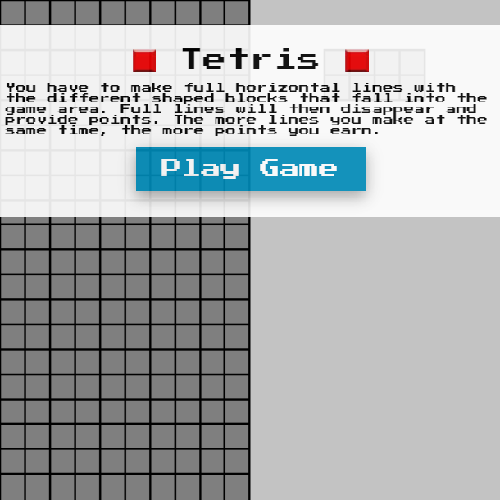
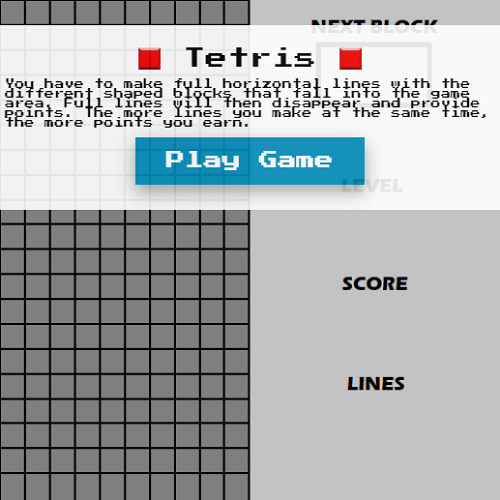
Added counters

diff --git a/src/classes/game.ts b/src/classes/game.ts
@@ -5,9 +5,11 @@ import Player from './player';
 import IPlayer from './interfaces/player';
 import Sprite from './sprite';
 import Block from './block';
+import Counter from './counter';
 import ISprite from './interfaces/sprite';
 import IBlock from './interfaces/block';
 import INextBlock from './interfaces/next-block';
+import ICounter from './interfaces/counter';
 import PlayerResultEnum from './enums/player-result-enum';
 import DirectionEnum from './enums/direction-enum';
 import SpriteTypeEnum from './enums/sprite-type-enum';
@@ -22,12 +24,15 @@ export default class Game implements IGame {
 	public board: ISprite[];
 	public block: IBlock;
 	public next: IBlock;
-	public level: number;
+	public level: ICounter;
+	public score: ICounter;
+	public lines: ICounter;
 	public direction: DirectionEnum;
 	public timer: any;
 	public timerInterval: number;
 	public isGameInPlay: boolean;
 
+	readonly DEFAULT_LINE_SCORE: number = 100;
 	readonly defaultTimerInterval: number = 1000;
 	readonly intervalDecrease: number = 10;
 	readonly intervalMinimum: number = 100;
@@ -48,9 +53,11 @@ export default class Game implements IGame {
 		this.player = new Player(config);
 		this.sprites = [];
 		this.board = [];
+		this.level = new Counter({ x: 14, y: 9, value: 1, digits: 4 });
+		this.score = new Counter({ x: 12, y: 13, value: 0, digits: 8 });
+		this.lines = new Counter({ x: 12, y: 17, value: 0, digits: 8 });
 		this.block = this.newBlock(5, 0, DirectionEnum.DOWN, this.randomSprite());
 		this.next = this.nextBlock();
-		this.level = 1;
 		this.direction = DirectionEnum.RIGHT
 		this.isGameInPlay = false;
 		this.timerInterval = this.defaultTimerInterval;
@@ -59,6 +66,7 @@ export default class Game implements IGame {
 		this.hideOrShowBlock(true, this.block, this.sprites);
 		this.createBoard();
 		this.hideOrShowBlock(true, this.next, this.board);
+		this.updateCounters();
 	}
 
 	public handleInput = (playerResult: PlayerResultEnum, sprite?: ISprite): void => {
@@ -97,6 +105,12 @@ export default class Game implements IGame {
 				this.board.push(this.newSprite(x, y));
 			}
 		}
+	}
+
+	private updateCounters = (): void => {
+		this.score.updateValue(this.board);
+		this.level.updateValue(this.board);
+		this.lines.updateValue(this.board);
 	}
 
 	private blockStopped = (): void => {
@@ -178,6 +192,10 @@ export default class Game implements IGame {
 				this.moveLines(y);
 				this.addLine();
 				this.decreaseTimer();
+				this.score.addValue(this.level.value * this.DEFAULT_LINE_SCORE)
+				this.level.addValue(1);
+				this.lines.addValue(1);
+				this.updateCounters();
 				y++;
 			}
 		}

diff --git a/src/classes/counter.ts b/src/classes/counter.ts
@@ -1,0 +1,62 @@
+import ICounter from './interfaces/counter';
+import ICounterProps from './interfaces/counter-props';
+import ISprite from './interfaces/sprite';
+import SpriteTypeEnum from './enums/sprite-type-enum';
+
+export default class Counter implements ICounter {
+	public x: number;
+	public y: number;
+	public digits: number;
+	public value: number;
+
+	private values: number[];
+	private sprites: SpriteTypeEnum[] = [
+		SpriteTypeEnum.NUM0,
+		SpriteTypeEnum.NUM1,
+		SpriteTypeEnum.NUM2,
+		SpriteTypeEnum.NUM3,
+		SpriteTypeEnum.NUM4,
+		SpriteTypeEnum.NUM5,
+		SpriteTypeEnum.NUM6,
+		SpriteTypeEnum.NUM7,
+		SpriteTypeEnum.NUM8,
+		SpriteTypeEnum.NUM9,
+	]
+
+	constructor(config: ICounterProps) {
+		this.x = config.x;
+		this.y = config.y;
+		this.digits = config.digits;
+		this.value = config.value;
+		this.values = [];
+
+		this.addValue(0);
+	}
+
+	public updateValue = (sprites: ISprite[]): void => {
+		let digit = 0;
+		for (let x = this.x; x < this.x + this.digits; x++) {
+			const sprite = sprites.find((spr: ISprite) => spr.x === x && spr.y === this.y);
+
+			if (sprite) {
+				sprite.show();
+				sprite.updateImage(this.sprites[this.values[digit]]);
+			}
+
+			digit ++;
+		}
+	}
+
+	public addValue = (value: number): void => {
+		this.value += value;
+		this.values = [];
+		let newValue = this.value;
+
+		for (let x = this.digits; x > 0; x--) {
+			const tenth = 10 ** (x - 1)
+			const result = Math.floor(newValue / tenth);
+			this.values.push(result);
+			newValue -= result * tenth;
+		}
+	}
+}

diff --git a/src/classes/sprite.ts b/src/classes/sprite.ts
@@ -10,6 +10,16 @@ import sprite04 from '../images/sprite-04.png';
 import sprite05 from '../images/sprite-05.png';
 import sprite06 from '../images/sprite-06.png';
 import sprite07 from '../images/sprite-07.png';
+import num0 from '../images/0.png';
+import num1 from '../images/1.png';
+import num2 from '../images/2.png';
+import num3 from '../images/3.png';
+import num4 from '../images/4.png';
+import num5 from '../images/5.png';
+import num6 from '../images/6.png';
+import num7 from '../images/7.png';
+import num8 from '../images/8.png';
+import num9 from '../images/9.png';
 
 export default class Sprite implements ISprite {
 	public key: string;
@@ -23,7 +33,7 @@ export default class Sprite implements ISprite {
 	private imageType: ImageEnum;
 
 	readonly Z_INDEX: number = 5000;
-	readonly playerImages = {sprite01, sprite02, sprite03, sprite04, sprite05, sprite06, sprite07};
+	readonly playerImages = {sprite01, sprite02, sprite03, sprite04, sprite05, sprite06, sprite07, num0, num1, num2, num3, num4, num5, num6, num7, num8, num9};
 
 	constructor(config: ISpriteProps) {
 		this.imageType = config.image;

diff --git a/src/components/mobile-buttons/mobile-buttons.tsx b/src/components/mobile-buttons/mobile-buttons.tsx
@@ -13,7 +13,8 @@ export default class MobileButtons extends React.Component<IMobileButtonsProps, 
 				<button type="button" onClick={ this.props.handleMobileButton.bind(this, PlayerResultEnum.ARROW_RIGHT) }>RIGHT</button>
 			</div>
 			<div className="button-row">
-				<button type="button" onClick={ this.props.handleMobileButton.bind(this, PlayerResultEnum.SPACE_BAR) }>SPIN</button>
+				<button className="left-button" type="button" onClick={ this.props.handleMobileButton.bind(this, PlayerResultEnum.SPACE_BAR) }>SPIN</button>
+				<button type="button" onClick={ this.props.handleMobileButton.bind(this, PlayerResultEnum.ARROW_DOWN) }>DOWN</button>
 			</div>
 		</div>
 	}

diff --git a/src/classes/interfaces/game.ts b/src/classes/interfaces/game.ts
@@ -1,6 +1,7 @@
 import IPlayer from './player';
 import ISprite from './sprite';
 import IBlock from './block';
+import ICounter from './counter';
 import PlayerResultEnum from '../enums/player-result-enum';
 import DirectionEnum from '../enums/direction-enum';
 
@@ -10,7 +11,9 @@ export default interface IGame {
 	board?: ISprite[];
 	block: IBlock;
 	next: IBlock;
-	level: number;
+	level: ICounter;
+	score: ICounter;
+	lines: ICounter;
 	direction: DirectionEnum;
 	timer: any;
 	timerInterval: number;

diff --git a/src/classes/enums/sprite-type-enum.ts b/src/classes/enums/sprite-type-enum.ts
@@ -6,6 +6,16 @@ enum StriteTypeEnum {
 	SPRITE05 = 'sprite05',
 	SPRITE06 = 'sprite06',
 	SPRITE07 = 'sprite07',
+	NUM0 = 'num0',
+	NUM1 = 'num1',
+	NUM2 = 'num2',
+	NUM3 = 'num3',
+	NUM4 = 'num4',
+	NUM5 = 'num5',
+	NUM6 = 'num6',
+	NUM7 = 'num7',
+	NUM8 = 'num8',
+	NUM9 = 'num9',
 }
 
 export default StriteTypeEnum;

diff --git a/src/classes/tests/sprite.test.ts b/src/classes/tests/sprite.test.ts
@@ -26,7 +26,6 @@ describe('Sprite', () => {
 		expect(sprite.x).toEqual(10);
 		expect(sprite.y).toEqual(10);
 		expect(sprite.zIndex).toEqual(5000);
-		expect(sprite.image).toEqual('sprite-01.png');
 		expect(sprite.type).toEqual(SpriteTypeEnum.SPRITE01);
 	});
 });

diff --git a/src/classes/interfaces/counter.ts b/src/classes/interfaces/counter.ts
@@ -1,0 +1,10 @@
+import ISprite from './sprite';
+
+export default interface ICounter {
+	x: number;
+	y: number;
+	digits: number;
+	value: number;
+	updateValue(sprites: ISprite[]): void;
+	addValue(value: number): void;
+}

diff --git a/src/classes/interfaces/counter-props.ts b/src/classes/interfaces/counter-props.ts
@@ -1,0 +1,6 @@
+export default interface ICounterProps {
+	x: number;
+	y: number;
+	digits: number;
+	value: number;
+}
